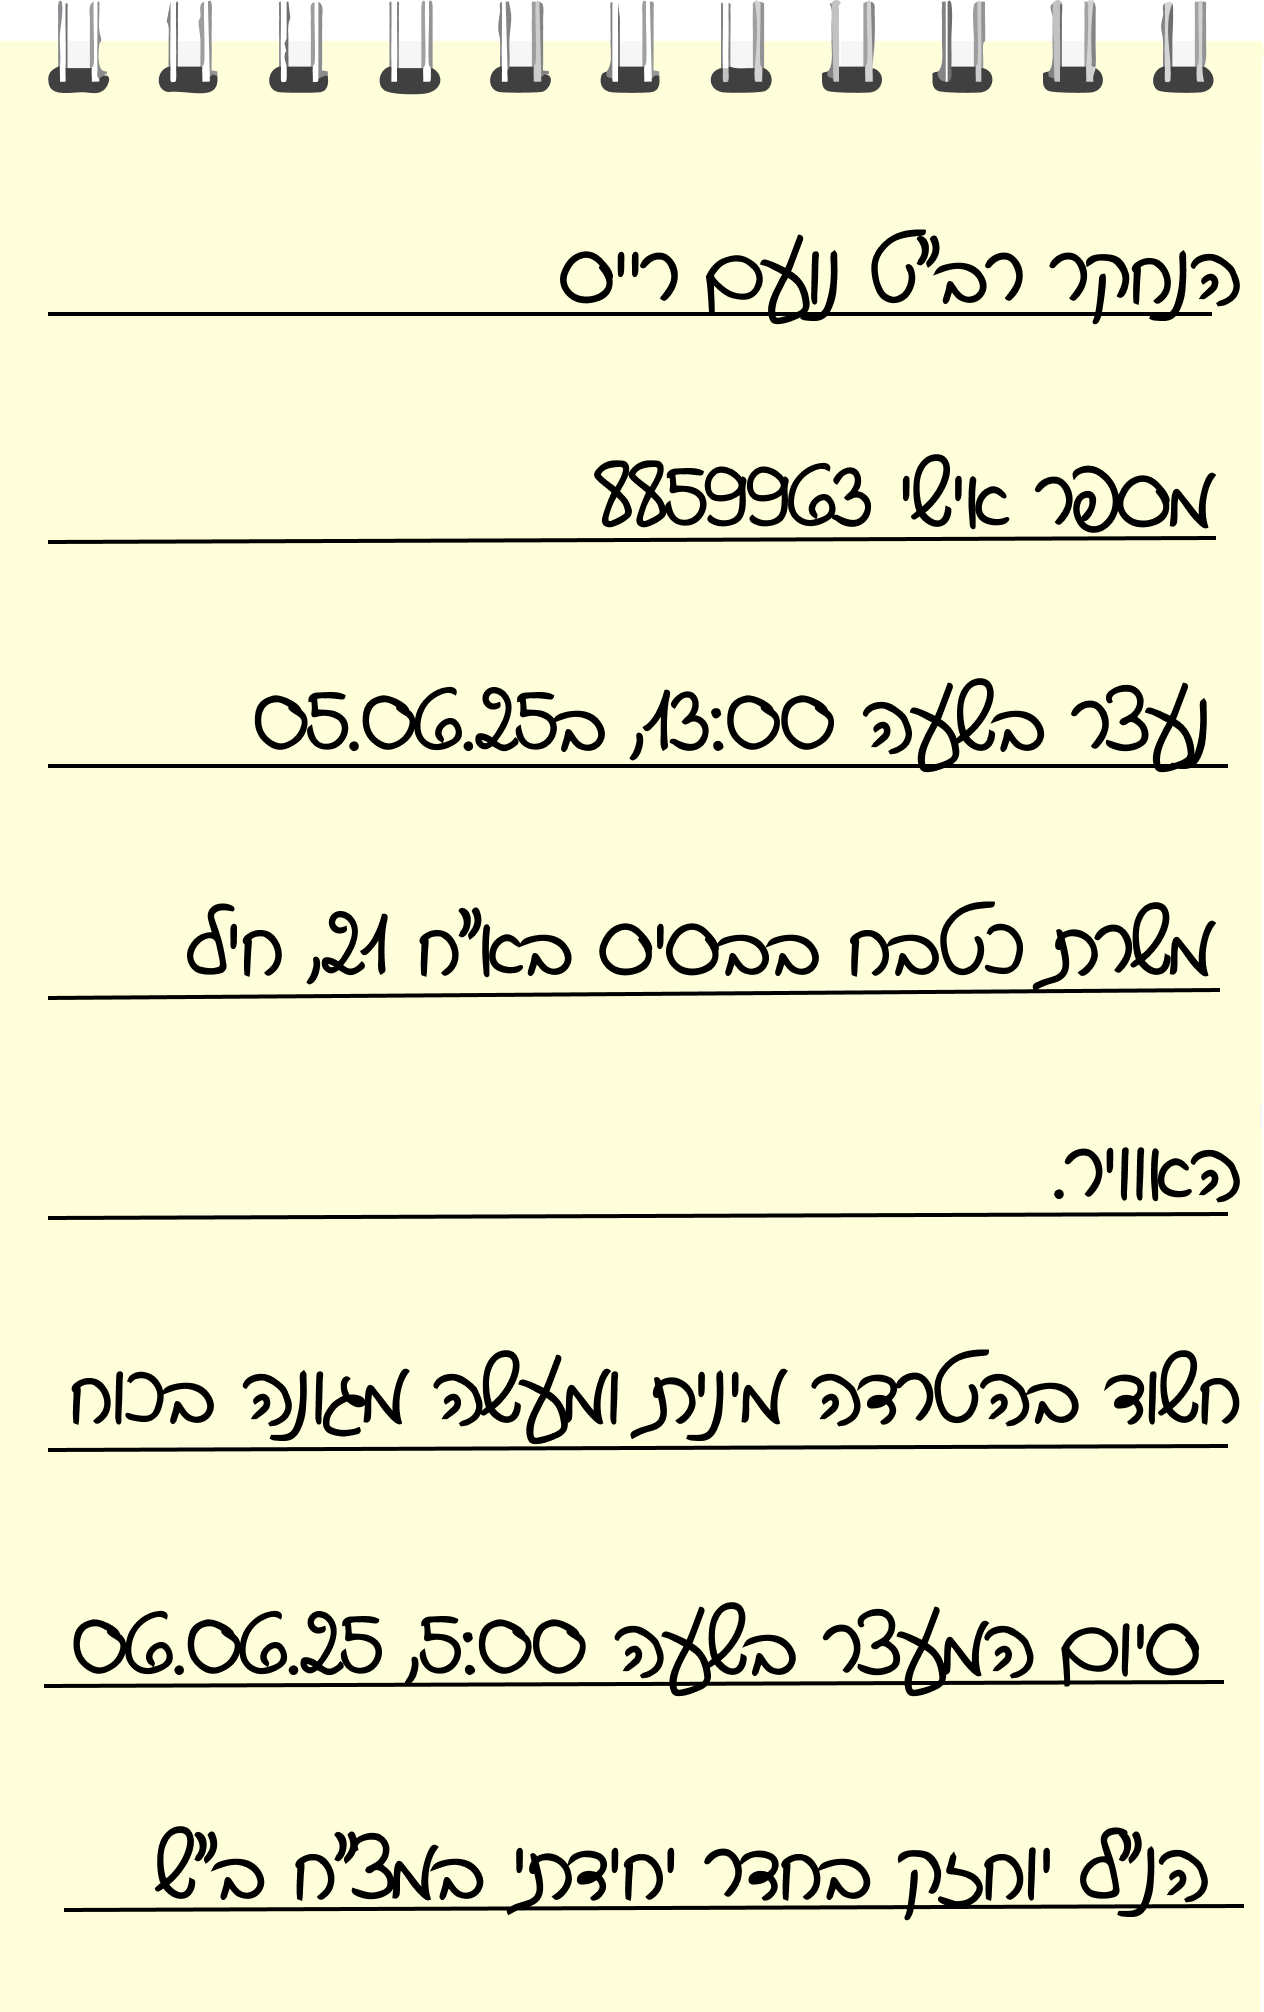
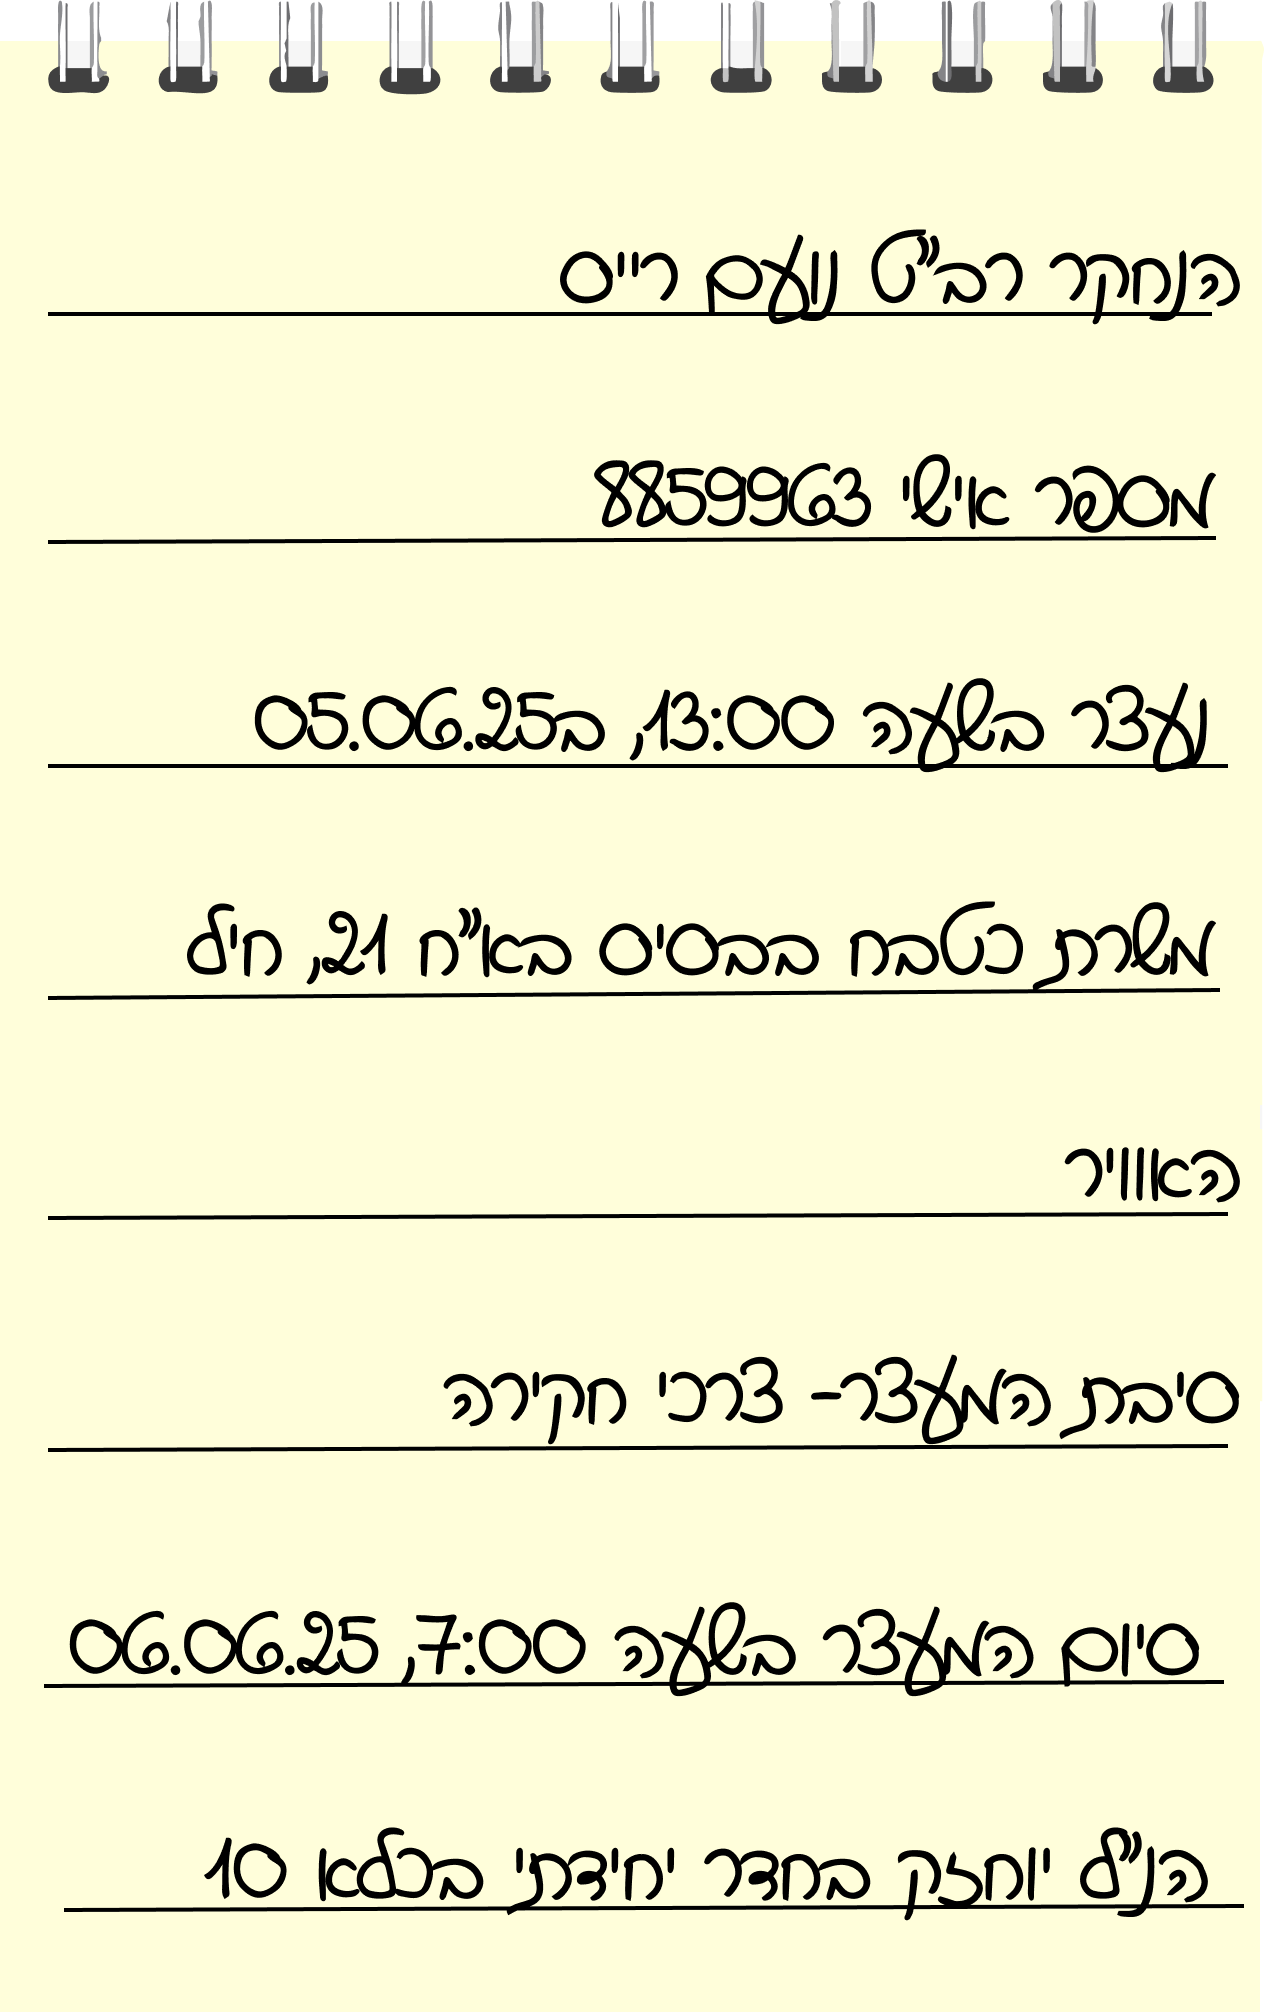
changes 17.11

Changed region(s): [[0.0617, 0.6779, 0.9873, 0.7087], [0.1234, 0.8936, 0.3394, 0.9553], [0.0617, 0.8012, 0.3703, 0.832]]

diff --git a/src/components/document1.vue b/src/components/document1.vue
@@ -289,8 +289,8 @@ export default {
         "המודיעין",
         "הכללי",
       ],
-      reason: "הטרדה מינית ומעשה מגונה בכוח",
-      roomText: 'מצ"ח ב"ש',
+      reason: "צרכי חקירה",
+      roomText: "כלא 10",
       pNum: "",
       lastName: "",
       firstName: "",
@@ -429,7 +429,7 @@ export default {
         this.answers.que5.time === "13:00"
       )
         rightAns++;
-      if (this.answers.que6.time === "05:00") rightAns++;
+      if (this.answers.que6.time === "07:00") rightAns++;
       if (this.roomUser.trim() === this.roomText) rightAns++;
 
       const allAnswersFilled = [
@@ -443,7 +443,7 @@ export default {
       });
       this.wrongTimes.que4 = this.answers.que4.time !== "13:00";
       this.wrongTimes.que5 = this.answers.que5.time !== "13:00";
-      this.wrongTimes.que6 = this.answers.que6.time !== "05:00";
+      this.wrongTimes.que6 = this.answers.que6.time !== "07:00";
 
       this.wrongReason = this.reasonAnswer.trim() !== this.reason;
       this.wrongRoom = this.roomUser.trim() !== this.roomText;
@@ -583,21 +583,10 @@ export default {
   transform: translate(-50%, -50%);
   z-index: 2;
 }
-.marking1 {
-  position: relative;
-  top: 8.6rem;
-  right: 11.3rem;
-  width: 2rem;
-  height: 1rem;
-  border: solid 2px rgb(0, 0, 0);
-  border-radius: 100%;
-  opacity: 0;
-  cursor: pointer;
-}
 .marking2 {
   position: relative;
-  top: 8.5rem;
-  right: 11.5rem;
+  top: 8.6rem;
+  right: 15.2rem;
   width: 3.2rem;
   height: 1rem;
   border: solid 2px rgb(0, 0, 0);

diff --git a/src/components/About.vue b/src/components/About.vue
@@ -4,15 +4,15 @@
       <Transition  name="fade"> 
         <div v-show="showAbout" class="div-about">
           <h3 class="list-text-about">מפתחת ראשית:</h3>
-          <p class="list-text-about">טוראי מאיה מרום</p>
+          <p class="list-text-about">רב"ט מאיה מרום</p>
           <h3 class="list-text-about">גרפיקה:</h3>
-          <p class="list-text-about">סמל קריסטינה ברחטוב, טוראי מאיה מרום</p>
-          <h3 class="list-text-about">מומחת תוכן:</h3>
-          <p class="list-text-about">סגן רעות שגיא</p>
+          <p class="list-text-about">סמל קריסטינה ברחטוב, רב"ט מאיה מרום</p>
+          <h3 class="list-text-about">מומחות תוכן:</h3>
+          <p class="list-text-about">סגן רעות שגיא, סגן יהב רייזל</p>
           <h3 class="list-text-about">רמ"ד טי"ל:</h3>
           <p class="list-text-about">רס"מ עדן בן חמו</p>
           <h3 class="list-text-about">גרסה:</h3>
-          <p class="list-text-about">יוני 2025</p>
+          <p class="list-text-about">נובמבר 2025</p>
         </div>
       </Transition>
     </div>
@@ -73,6 +73,7 @@
     box-shadow: 0 15px 20px -20px rgba(0, 0, 0, 0.4);
     text-align: center;
     padding: 1rem;
+    /* color: #0E2C8E; */
   }
   
   .list-text-about {

diff --git a/src/components/SuspectInfo.vue b/src/components/SuspectInfo.vue
@@ -232,12 +232,13 @@ continue-btn:disabled,
 @media (max-width: 500px) {
   #suspect-info {
     overflow-x: none;
+    overflow-y: none;
   }
   .computer {
     width: 60rem;
     align-items: center;
     margin-left: 13rem;
-    margin-top: 12rem;
+    margin-top: 9rem;
   }
   .suspect {
     margin-top: -10rem;
@@ -246,13 +247,13 @@ continue-btn:disabled,
   }
   .continue-btn {
     margin-right: -1rem;
-    margin-top: 2rem;
+    margin-top: 1rem;
   }
   .finale-exe > p {
     font-size: 1.1rem;
   }
   .finale-exe {
-    top: 29.5rem;
+    top: 26.5rem;
     left: 9.5rem;
   }
 }
@@ -260,6 +261,7 @@ continue-btn:disabled,
   @media (max-width: 500px) {
   #suspect-info {
     overflow-x: none;
+    overflow-y: auto;
   }
   .computer {
     width: 60rem;

diff --git a/src/components/document2.vue b/src/components/document2.vue
@@ -109,7 +109,7 @@ export default {
       reason: "הטרדה מינית ומעשה מגונה בכוח",
       reasonAnswer: "",
       wrongReason: false,
-      hours: "18",
+      hours: "24",
       wrongHours: false,
       hourAnswer: "",
       signed1: false,
@@ -313,7 +313,7 @@ export default {
   width: 2rem;
   position: relative;
   top: -3rem;
-  left: 22.8rem;
+  left: 22.6rem;
 }
 .wrong {
   border: 2px solid red;

diff --git a/src/components/document5.vue b/src/components/document5.vue
@@ -195,7 +195,7 @@ export default {
         this.signed2 = true;
       }
     },
-    areAllFieldsFilled() {
+    validateAllFields() {
       return (
         this.userAnswers.every((val) => val.trim() !== "") && // תשובות כלשהן
         this.userAnswers1.every((val) => val.trim() !== "") && // תאריך

diff --git a/src/components/document4.vue b/src/components/document4.vue
@@ -142,7 +142,7 @@ export default {
         this.signed2 = true;
       }
     },
-    areAllFieldsFilled() {
+    validateAllFields() {
       return (
         this.userAnswers.every((val) => val.trim() !== "") && // תאריך מולא
         this.selectedTime.trim() !== "" && // שעה נבחרה

diff --git a/src/components/document3.vue b/src/components/document3.vue
@@ -507,9 +507,12 @@ export default {
 .input32 {
   width: 3rem;
   height: 0.8rem;
+  position: relative;
+  right: 4.2rem;
+  
 }
 .last-input32 {
-  margin-right: 11.5rem;
+  margin-right: 3.5rem;
   width: 4rem;
   height: 0.8rem;
 }
